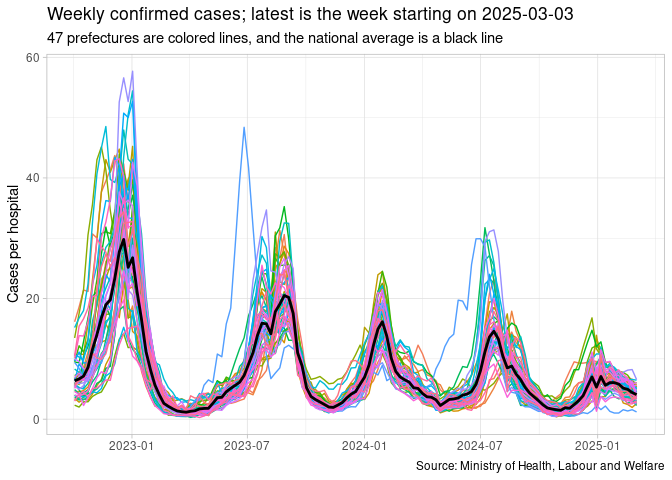
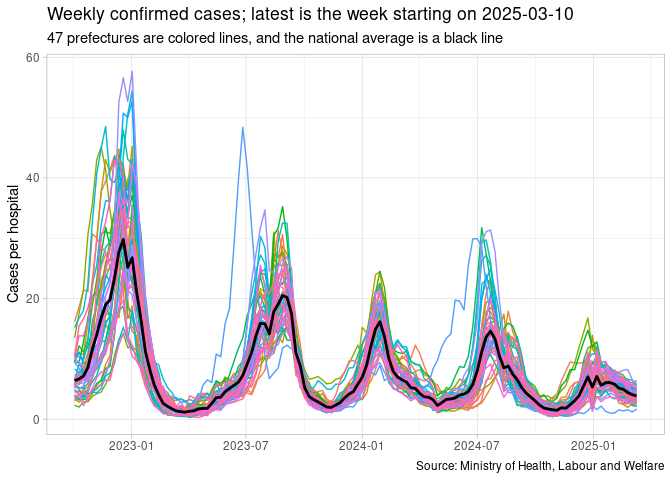
update on March 24, 2025

diff --git a/Japan_wk.md b/Japan_wk.md
@@ -2,7 +2,7 @@
 Mitsuo Shiota
 2023-05-20
 
-Updated: 2025-03-14
+Updated: 2025-03-24
 
 ## Covid-19 was reclassified as tier 5 on May 8, 2023 in Japan
 
